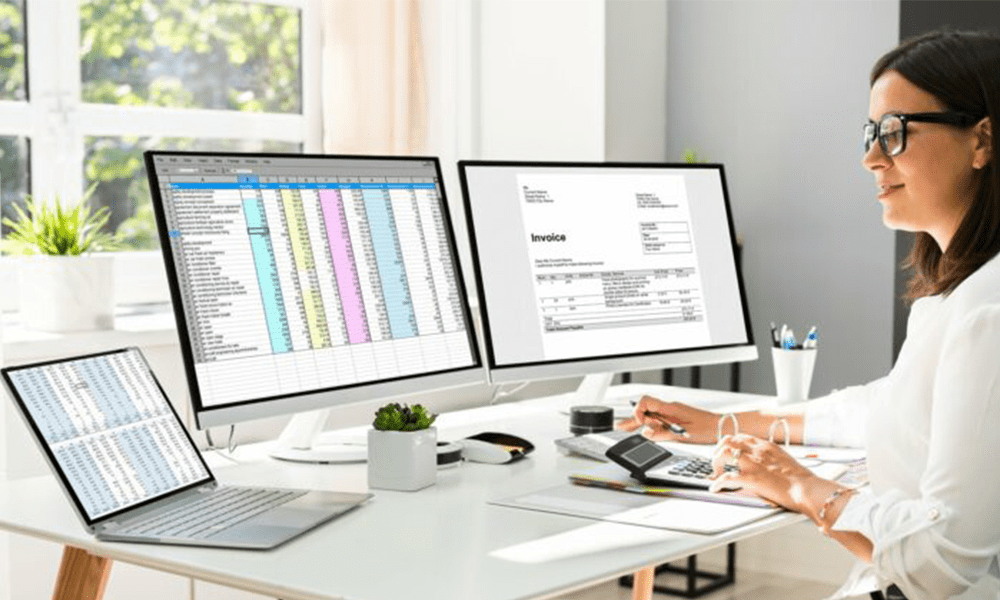
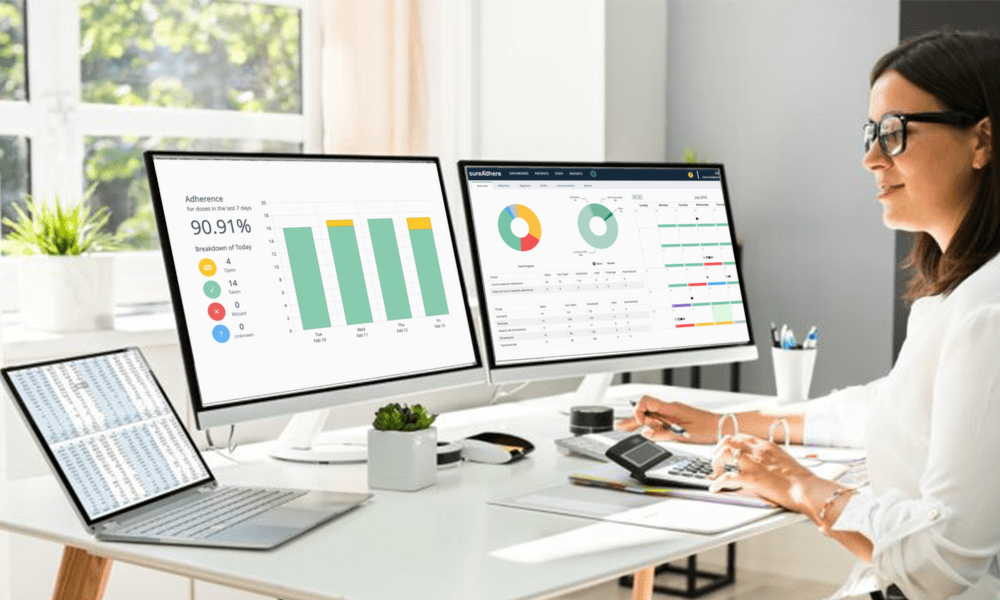
Show SureAdhere dashboards on the monitors in the clinical trials photo
* Add How It Works page with the core dose workflow

New /how-it-works/ page: a scroll-through of the eight-step dose workflow
(reminder, record, e-diary, review, regimen) with animated phone and care
team screens, restyled to the site brand. Linked from the footer Product
list on every page and registered in sitemap.xml.

Claude-Session: https://claude.ai/code/session_01TfekYRFDVu1cjkrj46rzUs

* Move the dose workflow onto the homepage under the platform section

Replaces the standalone /how-it-works/ page with the same scroll-through
embedded on the homepage, directly below Discover the SureAdhere Platform.
Removes the footer link, sitemap entry, and doc updates that the separate
page needed. The stats row is dropped because Partner Stories, directly
below, already shows the same dated figures.

Claude-Session: https://claude.ai/code/session_01TfekYRFDVu1cjkrj46rzUs

* Remove the E-diary card from the homepage workflow recap

The loop recap now shows four cards (Reminder, Record, Review, Regimen)
and its heading no longer lists e-diary. The e-diary steps in the
scroll-through above are unchanged.

Claude-Session: https://claude.ai/code/session_01TfekYRFDVu1cjkrj46rzUs

* Remove the mobile app and web platform panels from the homepage

The Discover the SureAdhere Platform section keeps its heading, intro
line, and demo button, and now leads straight into the dose workflow.

Claude-Session: https://claude.ai/code/session_01TfekYRFDVu1cjkrj46rzUs
[…]

Changed region(s): [[0.155, 0.24, 0.744, 0.63], [0.744, 0.54, 0.775, 0.57]]

diff --git a/clinical-trials/index.html b/clinical-trials/index.html
@@ -326,7 +326,7 @@
         </div>
       </div>
       <div class="hero-image">
-        <img src="../assets/images/hero-clinical-trials.webp" alt="Clinical trial participant using SureAdhere mobile app" style="border-radius:var(--radius-lg);box-shadow:0 16px 48px -12px rgba(0,0,0,0.18);" width="1000" height="600">
+        <img src="../assets/images/hero-clinical-trials.webp" alt="Clinical trial team member reviewing SureAdhere adherence dashboards" style="border-radius:var(--radius-lg);box-shadow:0 16px 48px -12px rgba(0,0,0,0.18);" width="1000" height="600">
       </div>
     </div>
   </div>
